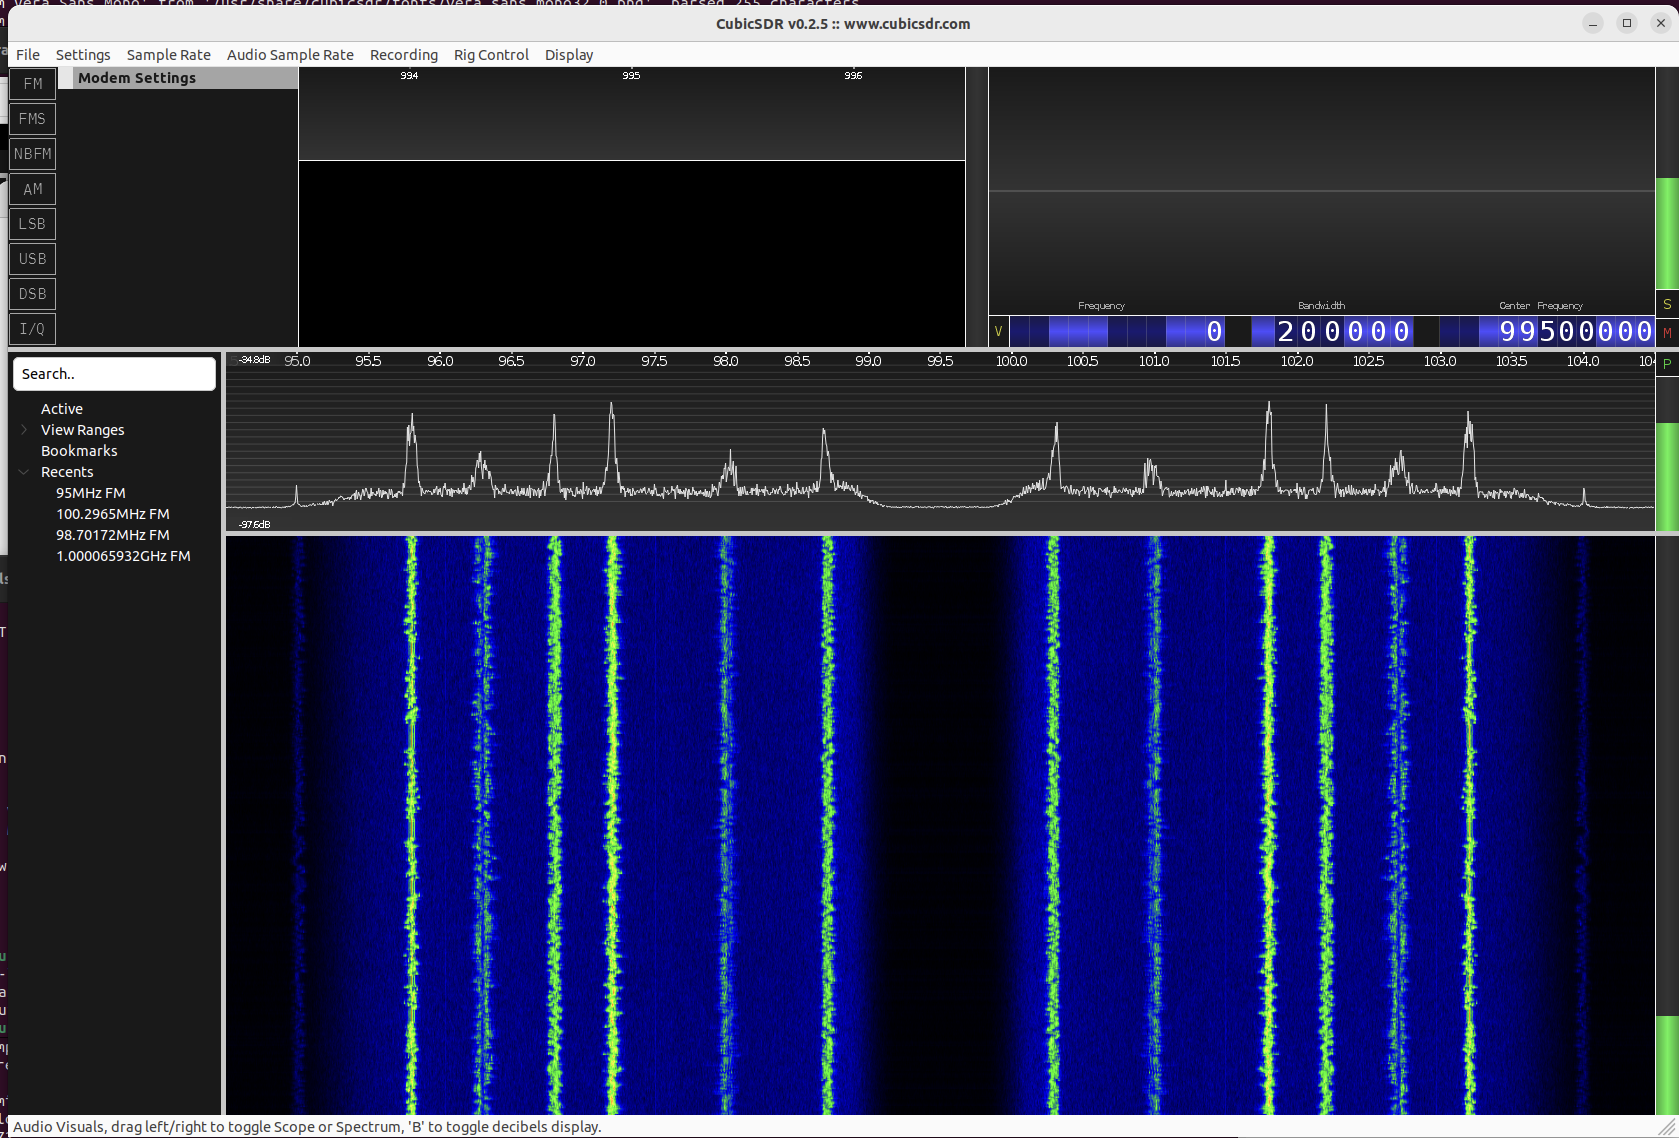
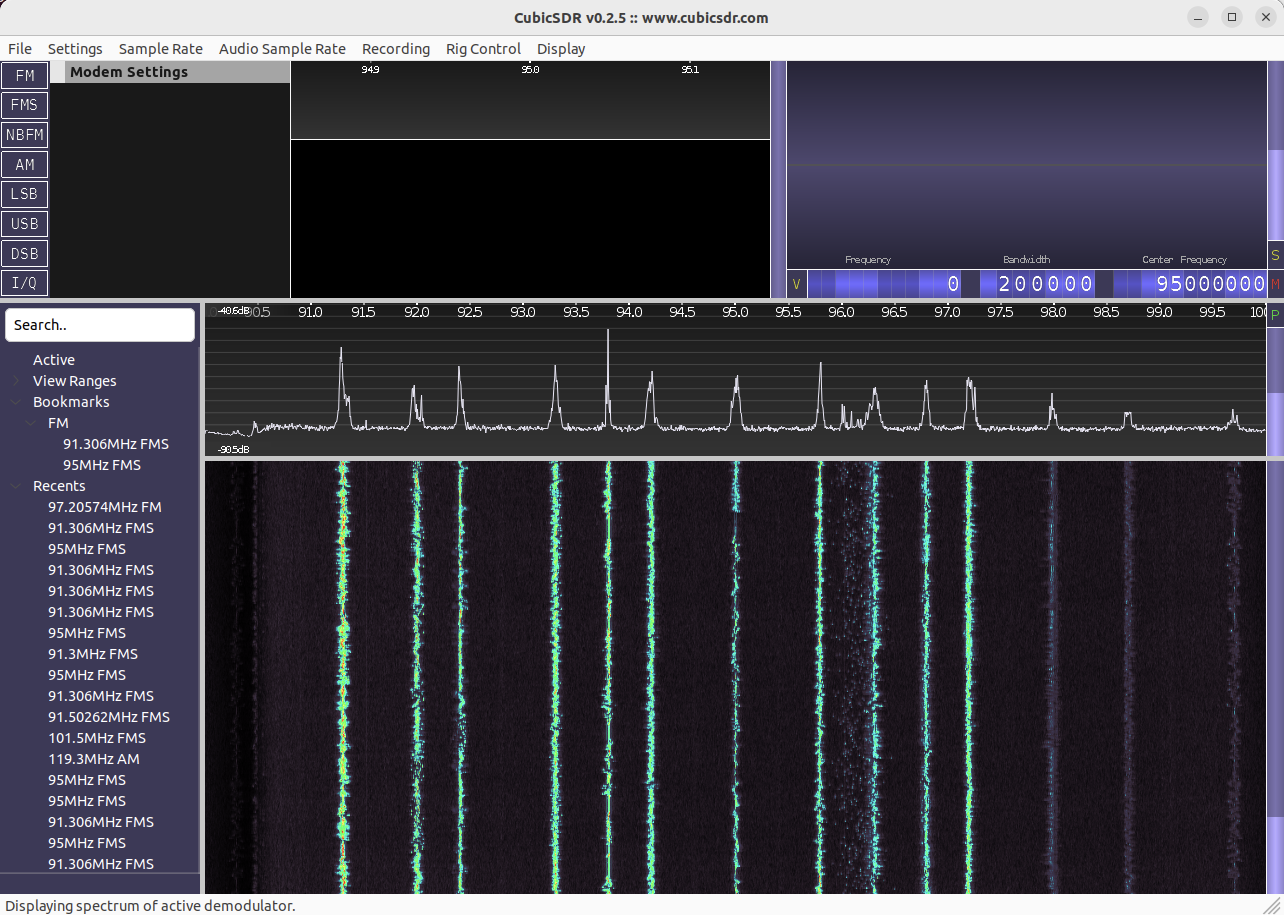
soapy: update cubicsdr docs for baseband changes

diff --git a/soapy/README.cubicsdr.md b/soapy/README.cubicsdr.md
@@ -42,57 +42,73 @@ $ python/status.py
 
 ```
 $ SoapySDRUtil --find
-[...]
-[DEBUG] candidate: address=10, bus=1, driver=lpcsdr, index=0, label=LPCSDR@1:10 S/N 38265463986061DC, serial=38265463986061DC
-[...]
-Found device 2
-  address = 10
+######################################################
+##     Soapy SDR -- the SDR abstraction library     ##
+######################################################
+
+[DEBUG] LPCSDR: FindDevices("")
+[DEBUG] candidate: address=3, bus=1, driver=lpcsdr, index=0, label=LPCSDR@1:1 s/n 38265463986061DC, ports=1, serial=38265463986061DC
+Found device 0
+  address = 3
   bus = 1
   driver = lpcsdr
   index = 0
-  label = LPCSDR@1:10 S/N 38265463986061DC
+  label = LPCSDR@1:1 s/n 38265463986061DC
+  ports = 1
   serial = 38265463986061DC
+
 ```
 
 ```
-$ SoapySDRUtil --args="driver=lpcsdr" --rate=20000000 --direction=RX --channels=0
+$ SoapySDRUtil --args="driver=lpcsdr" --rate=10000000 --direction=RX --channels=0
 ######################################################
 ##     Soapy SDR -- the SDR abstraction library     ##
 ######################################################
 
 [DEBUG] LPCSDR: FindDevices("driver=lpcsdr")
-[DEBUG] candidate: address=10, bus=1, driver=lpcsdr, index=0, label=LPCSDR@1:10 S/N 38265463986061DC, serial=38265463986061DC
-[DEBUG] LPCSDR: MakeDevice("address=10, bus=1, driver=lpcsdr, index=0, label=LPCSDR@1:10 S/N 38265463986061DC, serial=38265463986061DC")
-[DEBUG] LPCSDR: setSampleRate(1,0,20000000.000000)
+[DEBUG] candidate: address=3, bus=1, driver=lpcsdr, index=0, label=LPCSDR@1:1 s/n 38265463986061DC, ports=1, serial=38265463986061DC
+[DEBUG] LPCSDR: MakeDevice("address=3, bus=1, driver=lpcsdr, index=0, label=LPCSDR@1:1 s/n 38265463986061DC, ports=1, serial=38265463986061DC")
+[DEBUG] LPCSDR: setSampleRate(1,0,10000000.000000)
+[DEBUG] liblpcsdr: set HPF cutoff = 0.527MHz
+[DEBUG] liblpcsdr: set LPF cutoff = 9.955MHz
+[DEBUG] liblpcsdr: ADC sample rate changes to 20000000.000000
 [DEBUG] LPCSDR: getNativeStreamFormat(1,0)
 [DEBUG] LPCSDR: setupStream(1,CS16,[1 items],"")
-[DEBUG]  = 0xaaaabdb11170
+[DEBUG]  = 0xaaaad34d4ea0
 Stream format: CS16
 Num channels: 1
 Element size: 4 bytes
-Begin RX rate test at 20 Msps
-[DEBUG] LPCSDR: getStreamMTU(0xaaaabdb11170)
+Begin RX rate test at 10 Msps
+[DEBUG] LPCSDR: getStreamMTU(0xaaaad34d4ea0)
 Starting stream loop, press Ctrl+C to exit...
-[DEBUG] LPCSDR: activateStream(0xaaaabdb11170,0,0,0)
+[DEBUG] LPCSDR: activateStream(0xaaaad34d4ea0,0,0,0)
 [DEBUG] LPCSDR: streaming thread started
 [DEBUG] liblpcsdr: allocate_transfers: 
-  buffer_size    131072
-  samples/buffer 65536
-  samples/block  6808
-  blocks/buffer  9
-  bytes/block    10240
-  transfer_size  92160
-  transfer_count 4
-  transfer_timeout_ms 512
+  buffer_size              131072
+  usb_transfer_size        92160
+  adc_samples_per_transfer 61272
+  transfer_count           32
+  transfer_timeout_ms      598
 
-19.834 Msps	79.3361 MBps
-19.9135 Msps	79.6539 MBps
-19.9428 Msps	79.7713 MBps
-\^C[DEBUG] LPCSDR: deactivateStream(0xaaaabdb11170,0,0)
+[DEBUG] liblpcsdr: starting ADC transfers with:
+  N: 0
+  M: 15.00000
+  P: 9
+  I: 0
+  fCCO: 360.00 MHz
+  fADC: 20.00 MHz
+
+[DEBUG] liblpcsdr: ADC overrun
+[DEBUG] liblpcsdr: USB overrun
[phone redacted] Msps	39.6734 MBps
[phone redacted] Msps	39.8414 MBps
[phone redacted] Msps	39.8951 MBps
[phone redacted] Msps	39.9176 MBps
+\^C[DEBUG] LPCSDR: deactivateStream(0xaaaad34d4ea0,0,0)
 [DEBUG] liblpcsdr: lpcsdr_stream_data: something set the draining flag, stopping
 [DEBUG] LPCSDR: streaming thread terminated
-[DEBUG] LPCSDR: closeStream(0xaaaabdb11170)
-[DEBUG] LPCSDR: deactivateStream(0xaaaabdb11170,0,0)
+[DEBUG] LPCSDR: closeStream(0xaaaad34d4ea0)
+[DEBUG] LPCSDR: deactivateStream(0xaaaad34d4ea0,0,0)
 ```
 
 ## Start cubicsdr
@@ -111,13 +127,14 @@ You should now have a waterfall display running.
 
 ## Tuning
 
-The "center frequency" (top right corner) in CubicSDR controls the tuned PLL frequency.
-Frequencies immediately above the PLL will be captured (e.g., to see the broadcast FM
-spectrum, try tuning to 90MHz and you will capture 90-95MHz)
-
-Unlike earlier iterations of this code, we are capturing the upper sideband, so the PLL
-should be tuned below the frequency you want to look at, and the resulting ADC spectrum
-is _not_ inverted.
+The complex baseband stuff is working now, so the tuned center frequency (top right
+corner of CubicSDR) controls the center of the tuned band, i.e. the "zero" frequency
+in the baseband data. The LPCSDR will capture a chunk of the spectrum surrounding that
+center frequency, with a total width = the configured sample rate. Internally, the
+tuner PLL will actually be tuned to one edge of that band. e.g. if you tune to a
+center frequency of 95MHz, with a (complex) sampling rate of 10MHz, then the tuner PLL
+will be tuned to 90MHz and the ADC will run at 20MHz, capturing frequencies between
+90MHz - 100MHz.
 
 ## Gain
 
@@ -133,20 +150,8 @@ $ python/tuner.py --lna-gain 7 --mix-gain 7 --vga-gain 7
 
 ## Interpreting the waterfall
 
-The current implementation is a bit of a hack, in that it does not actually shift the signal
-to baseband. What you're seeing is directly the spectrum of the real-valued signal coming from
-the ADC.
-
-You will see a mirrored signal, mirrored around a center frequency which is the PLL / center
-frequency you set. The right-hand side of the spectrum is exactly what the ADC is seeing, with
-the center frequency corresponding to a 0Hz (DC) signal from the ADC. Frequency marks on the
-right-hand side will correctly reflect the RF frequency. For example, if you tune the PLL to
-90MHz, then a signal showing at 92MHz corresponds to a RF signal at 92MHz, and an ADC signal
-at 2MHz.
-
-The left-hand side is a mirror-image of the right-hand side (because we are doing a discrete
-Fourier transform on a real-valued signal, and that produces negative frequency components that
-mirror the positive frequency components). There are no new signals in there.
+Now that we're using complex baseband, there's nothing special here, it's a direct interpretation
+of a chunk of the spectrum with no mirroring.
 
 It should look something like this:
 
@@ -154,6 +159,7 @@ It should look something like this:
 
 ## Listen to some FM radio!
 
-Hook up an antenna and poke around the FM spectrum. left-clicking on the waterfall will center
-a FM demodulator on that frequency and you should get some audio output, all going well ...
-
+Hook up an antenna and poke around the FM spectrum. You can change the center frequency by
+clicking the top/bottom parts of each frequency digit, or using the mousewheel there.
+Clicking on the waterfall will center a FM demodulator on that frequency and you should
+get some audio output, all going well ...